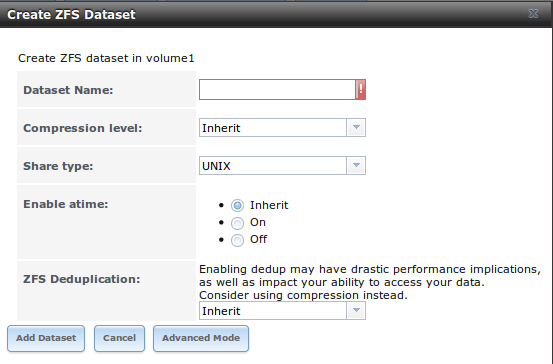
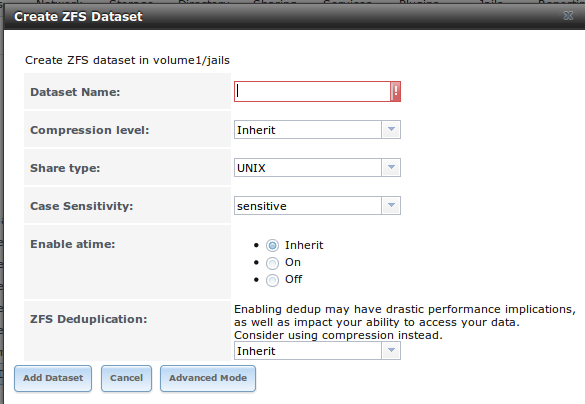
Document case insensitivity for dataset creation.
Former-commit-id: 766278048eca22a4b0e24241fb878912e3a77a22

Changed region(s): [[0.0, 0.0, 1.0, 1.0]]

diff --git a/docs/userguide/freenas_storage.rst b/docs/userguide/freenas_storage.rst
@@ -792,6 +792,11 @@ click the "Advanced Mode" button or configure the system to always display these
 |                          |                     | *Mac* for an AFP share                                                                                    |
 |                          |                     |                                                                                                           |
 +--------------------------+---------------------+-----------------------------------------------------------------------------------------------------------+
+| Case Sensitivity         | drop-down menu      | choices are *sensitive* (default, assumes filenames are case sensitive),                                  |
+|                          |                     | *insensitive* (assumes filenames are not case sensitive), or                                              |
+|                          |                     | *mixed* (understands both types of filenames)                                                             |
+|                          |                     |                                                                                                           |
++--------------------------+---------------------+-----------------------------------------------------------------------------------------------------------+
 | Enable atime             | Inherit, On, or Off | controls whether the access time for files is updated when they are read; setting this property to *Off*  |
 |                          |                     | avoids producing log traffic when reading files and can result in significant performance gains           |
 |                          |                     |                                                                                                           |

diff --git a/docs/userguide/freenas_intro.rst b/docs/userguide/freenas_intro.rst
@@ -230,6 +230,8 @@ The following fields have been added or deleted:
 
 * A "Run Now" button has been added for the highlighted cron job in :menuselection:`Tasks --> Cron Jobs --> View Cron Jobs`.
 
+* The "Case Sensitivity" drop-down menu has been added to :menuselection:`Storage --> Volumes --> Create ZFS Dataset`.
+
 * An "Upgrade" button has been added to the available icons for a highlighted volume in :menuselection:`Storage --> Volumes --> View Volumes`. This means that
   you no longer need to upgrade a ZFS pool from the command line.
   
